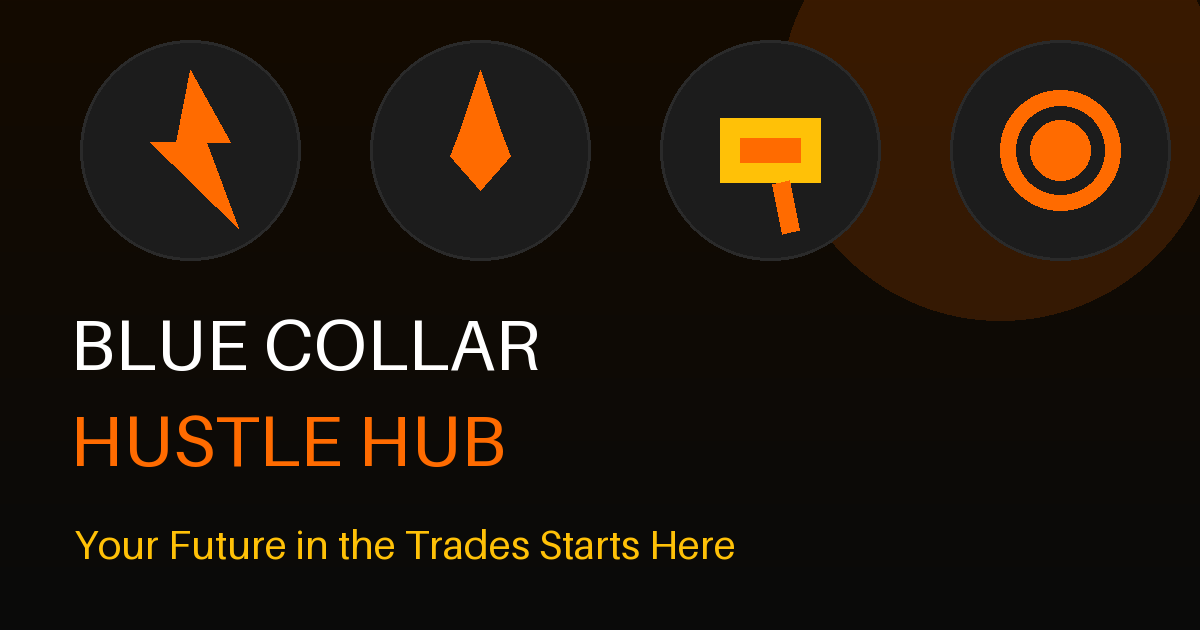
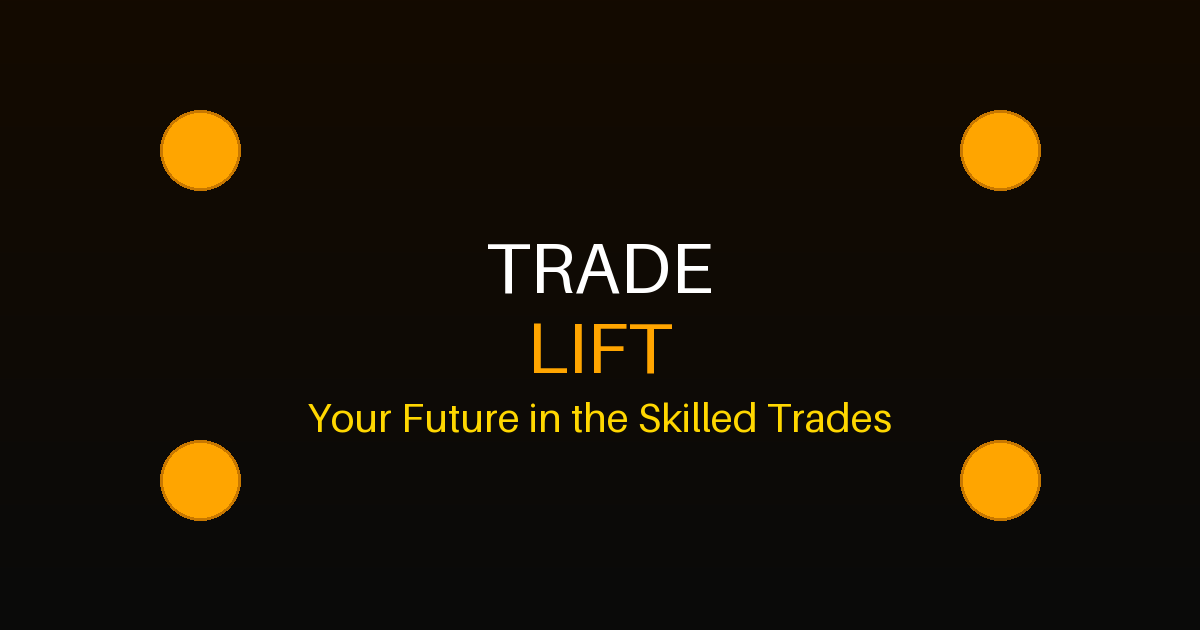
Rebrand: Blue Collar Hustle Hub -> TradeLift; update CNAME, images, docs

diff --git a/getting-started.html b/getting-started.html
@@ -3,21 +3,21 @@
 <head>
     <meta charset="UTF-8">
     <meta name="viewport" content="width=device-width, initial-scale=1.0">
-    <title>Getting Started in the Trades - Blue Collar Hustle Hub</title>
+    <title>Getting Started in the Trades - TradeLift</title>
     <meta name="description" content="Complete guide to starting a career in the skilled trades as a teenager or young adult. Learn about apprenticeships, certifications, tools to buy, and how to land your first trade job.">
     <meta name="keywords" content="getting started in trades, trade school, apprenticeship, OSHA certification, trade career for teens, skilled trades guide, first trade job, trade school programs">
-    <meta name="author" content="Blue Collar Hustle Hub">
+    <meta name="author" content="TradeLift">
 
     <!-- Open Graph Meta Tags -->
-    <meta property="og:title" content="Getting Started in the Trades - Blue Collar Hustle Hub">
+    <meta property="og:title" content="Getting Started in the Trades - TradeLift">
     <meta property="og:description" content="Complete guide to starting a career in the skilled trades. Learn about apprenticeships, certifications, tools to buy, and how to land your first trade job.">
     <meta property="og:type" content="article">
-    <meta property="og:url" content="https://blue-collar-hustle-hub.is-a.dev/getting-started.html">
-    <meta property="og:image" content="https://blue-collar-hustle-hub.is-a.dev/img/og-image.png">
+    <meta property="og:url" content="https://tradelift.is-a.dev/getting-started.html">
+    <meta property="og:image" content="https://tradelift.is-a.dev/img/og-image.png">
 
     <!-- Twitter Card Meta Tags -->
     <meta name="twitter:card" content="summary_large_image">
-    <meta name="twitter:title" content="Getting Started in the Trades - Blue Collar Hustle Hub">
+    <meta name="twitter:title" content="Getting Started in the Trades - TradeLift">
     <meta name="twitter:description" content="Complete guide to starting a career in the skilled trades. Learn about apprenticeships, certifications, tools to buy, and how to land your first trade job.">
 
     <!-- Structured Data JSON-LD -->
@@ -29,21 +29,21 @@
         "description": "Complete guide to starting a career in the skilled trades as a teenager or young adult, covering apprenticeships, certifications, tools, and job interview tips.",
         "author": {
             "@type": "Organization",
-            "name": "Blue Collar Hustle Hub"
+            "name": "TradeLift"
         },
         "publisher": {
             "@type": "Organization",
-            "name": "Blue Collar Hustle Hub",
+            "name": "TradeLift",
             "logo": {
                 "@type": "ImageObject",
-                "url": "https://blue-collar-hustle-hub.is-a.dev/img/logo.png"
+                "url": "https://tradelift.is-a.dev/img/logo.png"
             }
         },
         "datePublished": "2025-01-01",
         "dateModified": "2025-01-01",
         "mainEntityOfPage": {
             "@type": "WebPage",
-            "@id": "https://blue-collar-hustle-hub.is-a.dev/getting-started.html"
+            "@id": "https://tradelift.is-a.dev/getting-started.html"
         }
     }
     </script>
@@ -58,7 +58,7 @@
         <div class="container">
             <a href="index.html" class="site-logo">
                 <span class="logo-icon">⚒</span>
-                <span class="logo-text">Blue Collar Hustle Hub</span>
+                <span class="logo-text">TradeLift</span>
             </a>
             <nav class="main-nav" aria-label="Main navigation">
                 <button class="nav-toggle" aria-label="Toggle navigation menu" aria-expanded="false">
@@ -364,7 +364,7 @@
                 <div class="footer-brand">
                     <a href="index.html" class="footer-logo">
                         <span class="logo-icon">⚒</span>
-                        <span class="logo-text">Blue Collar Hustle Hub</span>
+                        <span class="logo-text">TradeLift</span>
                     </a>
                     <p class="footer-tagline">Your Future in the Trades Starts Here</p>
                 </div>
@@ -412,7 +412,7 @@
             </div>
 
             <div class="footer-bottom">
-                <p class="copyright">&copy; 2025 Blue Collar Hustle Hub. All rights reserved.</p>
+                <p class="copyright">&copy; 2025 TradeLift. All rights reserved.</p>
                 <p class="footer-note">Built for the next generation of skilled tradespeople.</p>
             </div>
         </div>

diff --git a/index.html b/index.html
@@ -3,21 +3,21 @@
 <head>
     <meta charset="UTF-8">
     <meta name="viewport" content="width=device-width, initial-scale=1.0">
-    <title>Blue Collar Hustle Hub - Your Future in the Trades</title>
-    <meta name="description" content="Blue Collar Hustle Hub - Explore high-paying trade careers like electrician, welder, and plumber. No student debt, job security, and earning potential over $60K+. Start your career in the trades today!">
+    <title>TradeLift - Your Future in the Trades</title>
+    <meta name="description" content="TradeLift - Explore high-paying trade careers like electrician, welder, and plumber. No student debt, job security, and earning potential over $60K+. Start your career in the trades today!">
     <meta name="keywords" content="trade careers, blue collar jobs, electrician training, welding career, plumber apprenticeship, skilled trades, no student debt">
-    <meta name="author" content="Blue Collar Hustle Hub">
+    <meta name="author" content="TradeLift">
 
     <!-- Open Graph Meta Tags -->
-    <meta property="og:title" content="Blue Collar Hustle Hub - Your Future in the Trades Starts Here">
+    <meta property="og:title" content="TradeLift - Your Future in the Trades Starts Here">
     <meta property="og:description" content="Explore high-paying trade careers. No student debt, job security, and earning potential over $60K+. Start your career in the trades today!">
     <meta property="og:type" content="website">
-    <meta property="og:url" content="https://blue-collar-hustle-hub.is-a.dev">
-    <meta property="og:image" content="https://blue-collar-hustle-hub.is-a.dev/img/og-image.png">
+    <meta property="og:url" content="https://tradelift.is-a.dev">
+    <meta property="og:image" content="https://tradelift.is-a.dev/img/og-image.png">
 
     <!-- Twitter Card Meta Tags -->
     <meta name="twitter:card" content="summary_large_image">
-    <meta name="twitter:title" content="Blue Collar Hustle Hub - Your Future in the Trades Starts Here">
+    <meta name="twitter:title" content="TradeLift - Your Future in the Trades Starts Here">
     <meta name="twitter:description" content="Explore high-paying trade careers. No student debt, job security, and earning potential over $60K+.">
 
     <!-- Structured Data JSON-LD -->
@@ -25,12 +25,12 @@
     {
         "@context": "https://schema.org",
         "@type": "WebSite",
-        "name": "Blue Collar Hustle Hub",
-        "url": "https://blue-collar-hustle-hub.is-a.dev",
+        "name": "TradeLift",
+        "url": "https://tradelift.is-a.dev",
         "description": "Explore high-paying trade careers like electrician, welder, and plumber. No student debt, job security, and earning potential over $60K+.",
         "potentialAction": {
             "@type": "SearchAction",
-            "target": "https://blue-collar-hustle-hub.is-a.dev/search?q={search_term_string}",
+            "target": "https://tradelift.is-a.dev/search?q={search_term_string}",
             "query-input": "required name=search_term_string"
         }
     }
@@ -46,7 +46,7 @@
         <div class="container">
             <a href="index.html" class="site-logo">
                 <span class="logo-icon">⚒</span>
-                <span class="logo-text">Blue Collar Hustle Hub</span>
+                <span class="logo-text">TradeLift</span>
             </a>
             <nav class="main-nav" aria-label="Main navigation">
                 <button class="nav-toggle" aria-label="Toggle navigation menu" aria-expanded="false">
@@ -234,7 +234,7 @@
                 <div class="footer-brand">
                     <a href="index.html" class="footer-logo">
                         <span class="logo-icon">⚒</span>
-                        <span class="logo-text">Blue Collar Hustle Hub</span>
+                        <span class="logo-text">TradeLift</span>
                     </a>
                     <p class="footer-tagline">Your Future in the Trades Starts Here</p>
                 </div>
@@ -282,7 +282,7 @@
             </div>
 
             <div class="footer-bottom">
-                <p class="copyright">&copy; 2025 Blue Collar Hustle Hub. All rights reserved.</p>
+                <p class="copyright">&copy; 2025 TradeLift. All rights reserved.</p>
                 <p class="footer-note">Built for the next generation of skilled tradespeople.</p>
             </div>
         </div>

diff --git a/resources.html b/resources.html
@@ -3,19 +3,19 @@
 <head>
     <meta charset="UTF-8">
     <meta name="viewport" content="width=device-width, initial-scale=1.0">
-    <title>Resources - Blue Collar Hustle Hub</title>
+    <title>Resources - TradeLift</title>
     <meta name="description" content="Essential resources for aspiring tradespeople — tools, certifications, YouTube channels, books, and websites to accelerate your trade career.">
     <meta name="keywords" content="trade resources, tools for trades, trade certifications, YouTube channels for trades, trade career books, apprenticeship resources">
-    <meta name="author" content="Blue Collar Hustle Hub">
+    <meta name="author" content="TradeLift">
 
-    <meta property="og:title" content="Resources - Blue Collar Hustle Hub">
+    <meta property="og:title" content="Resources - TradeLift">
     <meta property="og:description" content="Essential resources for aspiring tradespeople — tools, certifications, YouTube channels, books, and websites.">
     <meta property="og:type" content="website">
-    <meta property="og:url" content="https://blue-collar-hustle-hub.is-a.dev/resources.html">
-    <meta property="og:image" content="https://blue-collar-hustle-hub.is-a.dev/img/og-image.png">
+    <meta property="og:url" content="https://tradelift.is-a.dev/resources.html">
+    <meta property="og:image" content="https://tradelift.is-a.dev/img/og-image.png">
 
     <meta name="twitter:card" content="summary_large_image">
-    <meta name="twitter:title" content="Resources - Blue Collar Hustle Hub">
+    <meta name="twitter:title" content="Resources - TradeLift">
     <meta name="twitter:description" content="Essential resources for aspiring tradespeople — tools, certifications, YouTube channels, books, and websites.">
 
     <script type="application/ld+json">
@@ -26,7 +26,7 @@
         "description": "Essential resources for aspiring tradespeople including tools, certifications, YouTube channels, books, and websites.",
         "publisher": {
             "@type": "Organization",
-            "name": "Blue Collar Hustle Hub"
+            "name": "TradeLift"
         }
     }
     </script>
@@ -39,7 +39,7 @@
         <div class="container">
             <a href="index.html" class="site-logo">
                 <span class="logo-icon">⚒</span>
-                <span class="logo-text">Blue Collar Hustle Hub</span>
+                <span class="logo-text">TradeLift</span>
             </a>
             <nav class="main-nav" aria-label="Main navigation">
                 <button class="nav-toggle" aria-label="Toggle navigation menu" aria-expanded="false">
@@ -255,7 +255,7 @@
                 <div class="footer-brand">
                     <a href="index.html" class="footer-logo">
                         <span class="logo-icon">⚒</span>
-                        <span class="logo-text">Blue Collar Hustle Hub</span>
+                        <span class="logo-text">TradeLift</span>
                     </a>
                     <p class="footer-tagline">Your Future in the Trades Starts Here</p>
                 </div>
@@ -303,7 +303,7 @@
             </div>
 
             <div class="footer-bottom">
-                <p class="copyright">&copy; 2025 Blue Collar Hustle Hub. All rights reserved.</p>
+                <p class="copyright">&copy; 2025 TradeLift. All rights reserved.</p>
                 <p class="footer-note">Built for the next generation of skilled tradespeople.</p>
             </div>
         </div>

diff --git a/trades.html b/trades.html
@@ -3,21 +3,21 @@
 <head>
     <meta charset="UTF-8">
     <meta name="viewport" content="width=device-width, initial-scale=1.0">
-    <title>Explore Trades - Blue Collar Hustle Hub</title>
+    <title>Explore Trades - TradeLift</title>
     <meta name="description" content="Discover top trade careers — electrician, plumber, welder, HVAC, and more. Compare salaries, training paths, and find the right trade for you.">
     <meta name="keywords" content="trade careers, electrician, plumber, welder, HVAC technician, carpenter, ironworker, diesel mechanic, skilled trades">
-    <meta name="author" content="Blue Collar Hustle Hub">
+    <meta name="author" content="TradeLift">
 
     <!-- Open Graph Meta Tags -->
-    <meta property="og:title" content="Explore Trades - Blue Collar Hustle Hub">
+    <meta property="og:title" content="Explore Trades - TradeLift">
     <meta property="og:description" content="Discover top trade careers — electrician, plumber, welder, HVAC, and more. Compare salaries, training paths, and find the right trade for you.">
     <meta property="og:type" content="website">
-    <meta property="og:url" content="https://blue-collar-hustle-hub.is-a.dev/trades.html">
-    <meta property="og:image" content="https://blue-collar-hustle-hub.is-a.dev/img/og-image.png">
+    <meta property="og:url" content="https://tradelift.is-a.dev/trades.html">
+    <meta property="og:image" content="https://tradelift.is-a.dev/img/og-image.png">
 
     <!-- Twitter Card Meta Tags -->
     <meta name="twitter:card" content="summary_large_image">
-    <meta name="twitter:title" content="Explore Trades - Blue Collar Hustle Hub">
+    <meta name="twitter:title" content="Explore Trades - TradeLift">
     <meta name="twitter:description" content="Discover top trade careers — electrician, plumber, welder, HVAC, and more. Compare salaries, training paths, and find the right trade for you.">
 
     <!-- Structured Data JSON-LD -->
@@ -223,7 +223,7 @@
         <div class="container">
             <a href="index.html" class="site-logo">
                 <span class="logo-icon">⚒</span>
-                <span class="logo-text">Blue Collar Hustle Hub</span>
+                <span class="logo-text">TradeLift</span>
             </a>
             <nav class="main-nav" aria-label="Main navigation">
                 <button class="nav-toggle" aria-label="Toggle navigation menu" aria-expanded="false">
@@ -496,7 +496,7 @@
                 <div class="footer-brand">
                     <a href="index.html" class="footer-logo">
                         <span class="logo-icon">⚒</span>
-                        <span class="logo-text">Blue Collar Hustle Hub</span>
+                        <span class="logo-text">TradeLift</span>
                     </a>
                     <p class="footer-tagline">Your Future in the Trades Starts Here</p>
                 </div>
@@ -544,7 +544,7 @@
             </div>
 
             <div class="footer-bottom">
-                <p class="copyright">&copy; 2025 Blue Collar Hustle Hub. All rights reserved.</p>
+                <p class="copyright">&copy; 2025 TradeLift. All rights reserved.</p>
                 <p class="footer-note">Built for the next generation of skilled tradespeople.</p>
             </div>
         </div>

diff --git a/PROGRESS.md b/PROGRESS.md
@@ -1,8 +1,8 @@
-# Blue Collar Hustle Hub — Progress Tracker
+# TradeLift — Progress Tracker
 
 **Last updated:** 🎉 SITE IS LIVE ON GITHUB PAGES.
 
-## Status: 🟢 LIVE — https://pablo63leiva-alt.github.io/blue-collar-hustle-hub/
+## Status: 🟢 LIVE — https://tradelift.is-a.dev/
 
 ### Milestones
 - [x] Project structure scaffolded
@@ -16,21 +16,21 @@
 - [x] Missing assets created: hero-trades.svg, og-image.png (1200x630), logo.png (512x512)
 - [x] Meta/JSON-LD URLs → real Pages domain
 - [x] Review passes x2 (subagents) — clean
-- [x] **New production repo created: pablo63leiva-alt/blue-collar-hustle-hub** (old repo was a fork; GitHub blocks Pages on forks)
+- [x] **New production repo created: pablo63leiva-alt/tradelift.is-a.dev** (old repo was a fork; GitHub blocks Pages on forks)
 - [x] GitHub Pages enabled via API (PAT) + build_type workflow
 - [x] Deploy workflow passed (success)
 - [x] Verified live: all 4 pages + css/js/img return HTTP 200
 
 ### Getting Here: The Fork Workaround
 - GitHub refused to enable Pages on the original fork (even with `enablement: true` in the workflow): "Resource not accessible by integration".
-- User created a fresh non-fork repo (blue-collar-hustle-hub); pushed code via PAT credential; created the Pages site via `POST /repos/.../pages` with classic PAT `repo`+`workflow` scopes; re-ran the deploy workflow → success.
+- User created a fresh non-fork repo (tradelift.is-a.dev); pushed code via PAT credential; created the Pages site via `POST /repos/.../pages` with classic PAT `repo`+`workflow` scopes; re-ran the deploy workflow → success.
 
 ### Notes
-- Production pushes go to the `pages` git remote (blue-collar-hustle-hub). The fork remains the dev copy.
-- Deploy is automatic on every push to `main` of blue-collar-hustle-hub.
+- Production pushes go to the `pages` git remote (tradelift.is-a.dev). The fork remains the dev copy.
+- Deploy is automatic on every push to `main` of tradelift.is-a.dev.
 - Keep sharing/reflog: the PAT was used during setup; revoke/replace it as needed.
 
 ### Optional Future Work
-- Cleaner custom domain (e.g. bluecollarhustlehub.com) — then update meta/JSON-LD URLs in the 4 HTML files.
+- Cleaner custom domain (e.g. tradelift.com) — then update meta/JSON-LD URLs in the 4 HTML files.
 - Add newsletter backend (currently a placeholder that shows "Thanks for subscribing!").
 - More trades, blog, or interactive quiz for "which trade fits me".

diff --git a/AGENTS.md b/AGENTS.md
@@ -1,7 +1,7 @@
-# Blue Collar Hustle Hub — Agent Instructions
+# TradeLift — Agent Instructions
 
 ## What This Is
-A static multi-page website promoting skilled-trade careers ("Blue Collar Hustle Hub").
+A static multi-page website promoting skilled-trade careers ("TradeLift").
 Dark industrial theme (orange/yellow accents, mobile-first responsive). No framework, no build step — vanilla HTML/CSS/JS.
 
 ## Pages
@@ -34,6 +34,6 @@ Avoid student debt, high pay ($60K+), job security (750K open trade positions).
 4. Keep `PROGRESS.md` updated at the end of each session.
 
 ## Session Guidance
-- Live production repo: **`pablo63leiva-alt/blue-collar-hustle-hub`** → `https://pablo63leiva-alt.github.io/blue-collar-hustle-hub/` (GitHub Pages, auto-deploy via `.github/workflows/deploy.yml`).
-- The old repo `https-github.com-github-codespaces-blank` is a fork that GitHub refused to enable Pages on; it remains as the development copy. Push production changes to the `pages` remote (blue-collar-hustle-hub), NOT to the fork.
+- Live production repo: **`tradelift.is-a.dev`** → `https://tradelift.is-a.dev/` (GitHub Pages, auto-deploy via `.github/workflows/deploy.yml`).
+- The old repo `https-github.com-github-codespaces-blank` is a fork that GitHub refused to enable Pages on; it remains as the development copy. Push production changes to the `pages` remote (tradelift.is-a.dev), NOT to the fork.
 - Always commit only when the user asks.
